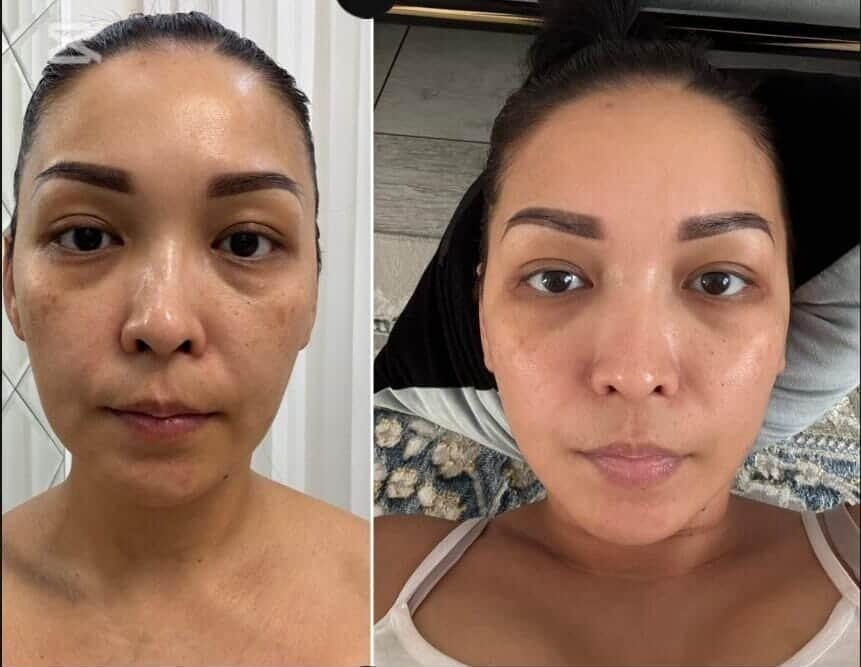
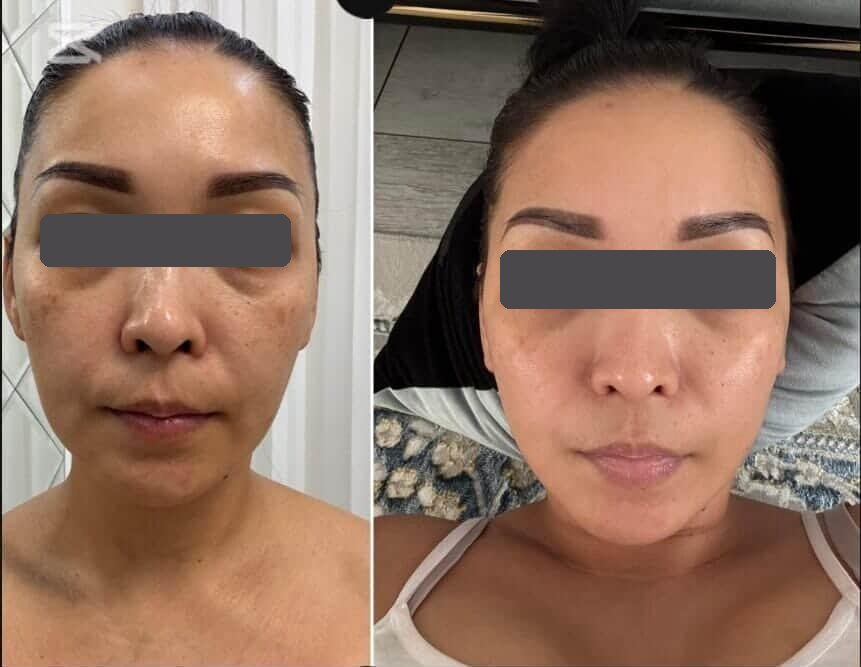
fix: hide eyes on RSS case photo; keep white photo backgrounds blended on hover
- RSS Brightening (ровный тон): глаза закрыты плашками на «до» и «после».
- Разделы каталога: движение при наведении перенесено на саму картинку —
  трансформация обёртки изолировала слой и выключала mix-blend-multiply,
  из-за чего проступал белый фон фото.
- Просмотр кейса: подписи «до/после» привязаны к фото, а не к рамке окна.

Claude-Session: https://claude.ai/code/session_01PsrvUj4EGwZy3muAqRZJLP

Changed region(s): [[0.5738, 0.3598, 0.9059, 0.4798], [0.0302, 0.2999, 0.3624, 0.4198]]

diff --git a/components/CategoryBento.tsx b/components/CategoryBento.tsx
@@ -73,6 +73,8 @@ function Count({ n, light }: { n: number; light?: boolean }) {
   return <span className={`text-[13px] ${light ? "text-milk/70" : "text-mute"}`}>{n} {plural(n)}</span>;
 }
 
+/* Сдвиг при наведении — на самой картинке, не на обёртке: трансформация обёртки
+   изолирует слой, и mix-blend-multiply перестаёт «растворять» белый фон фото. */
 function BigTile({ tile, tone }: { tile: Tile; tone: string }) {
   return (
     <Link href={tile.href} className={`group relative flex h-full min-h-[360px] flex-col overflow-hidden rounded-[32px] p-6 md:p-8 ${tone}`}>
@@ -83,8 +85,8 @@ function BigTile({ tile, tone }: { tile: Tile; tone: string }) {
         <span className="text-[14px] underline-offset-4 group-hover:underline">Смотреть</span>
       </span>
       {tile.cover && (
-        <span className="absolute -bottom-4 right-0 h-[72%] w-[62%] transition-transform duration-500 group-hover:-translate-y-1 group-hover:scale-[1.02]">
-          <ProductImage src={tile.cover} alt="" sizes="(min-width: 768px) 30vw, 60vw" className="object-contain object-bottom mix-blend-multiply" />
+        <span className="absolute -bottom-4 right-0 h-[72%] w-[62%]">
+          <ProductImage src={tile.cover} alt="" sizes="(min-width: 768px) 30vw, 60vw" className="object-contain object-bottom mix-blend-multiply transition-transform duration-500 group-hover:-translate-y-1 group-hover:scale-[1.02]" />
         </span>
       )}
     </Link>
@@ -100,8 +102,8 @@ function WideTile({ tile }: { tile: Tile }) {
         <span className="mt-auto pt-4"><Count n={tile.count} /></span>
       </span>
       {tile.cover && (
-        <span className="absolute inset-y-3 right-2 w-[48%] transition-transform duration-500 group-hover:scale-[1.03]">
-          <ProductImage src={tile.cover} alt="" sizes="(min-width: 768px) 22vw, 45vw" className="object-contain mix-blend-multiply" />
+        <span className="absolute inset-y-3 right-2 w-[48%]">
+          <ProductImage src={tile.cover} alt="" sizes="(min-width: 768px) 22vw, 45vw" className="object-contain mix-blend-multiply transition-transform duration-500 group-hover:scale-[1.03]" />
         </span>
       )}
     </Link>
@@ -120,8 +122,8 @@ function SmallTile({ tile, tone }: { tile: Tile; tone: string }) {
         </span>
       )}
       {tile.cover && !tile.framed && (
-        <span className="absolute -bottom-2 -right-2 h-[62%] w-[70%] transition-transform duration-500 group-hover:-translate-y-1">
-          <ProductImage src={tile.cover} alt="" sizes="(min-width: 768px) 15vw, 35vw" className="object-contain object-bottom mix-blend-multiply" />
+        <span className="absolute -bottom-2 -right-2 h-[62%] w-[70%]">
+          <ProductImage src={tile.cover} alt="" sizes="(min-width: 768px) 15vw, 35vw" className="object-contain object-bottom mix-blend-multiply transition-transform duration-500 group-hover:-translate-y-1" />
         </span>
       )}
       {dark && <span className="relative z-10 mt-auto text-[14px] underline underline-offset-4">Открыть</span>}

diff --git a/components/BeforeAfter.tsx b/components/BeforeAfter.tsx
@@ -62,8 +62,8 @@ export function BeforeAfterGallery({ cases, columns = 4 }: { cases: Case[]; colu
       >
         {current && (
           <div className="p-3 md:p-4">
-            <div className="relative overflow-hidden rounded-[20px]">
-              <Image src={current.image} alt={`${current.title}: до и после — ${current.result.toLowerCase()}`} width={current.width} height={current.height} sizes="900px" className="h-auto max-h-[72dvh] w-full object-contain" />
+            <div className="relative mx-auto w-fit overflow-hidden rounded-[20px]">
+              <Image src={current.image} alt={`${current.title}: до и после — ${current.result.toLowerCase()}`} width={current.width} height={current.height} sizes="900px" className="h-auto max-h-[72dvh] w-auto max-w-full" />
               <Labels split={current.split} />
             </div>
             <div className="flex flex-wrap items-center justify-between gap-3 px-2 pb-1 pt-4">
